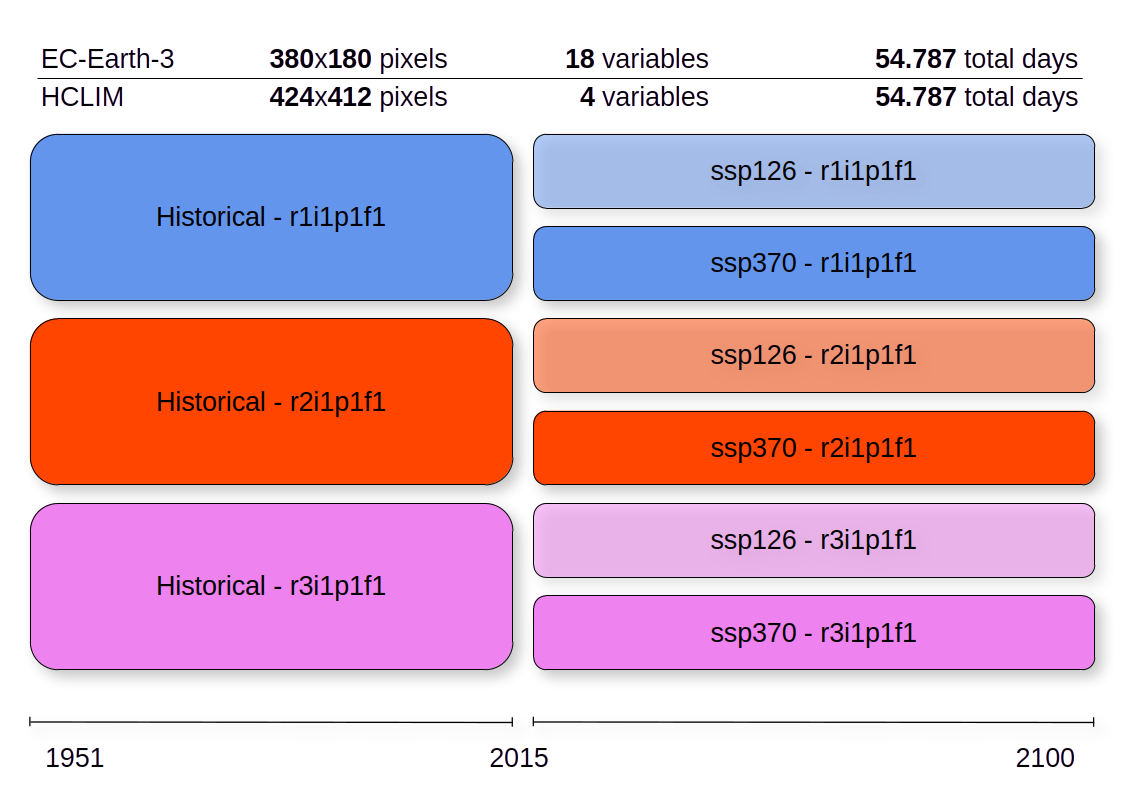
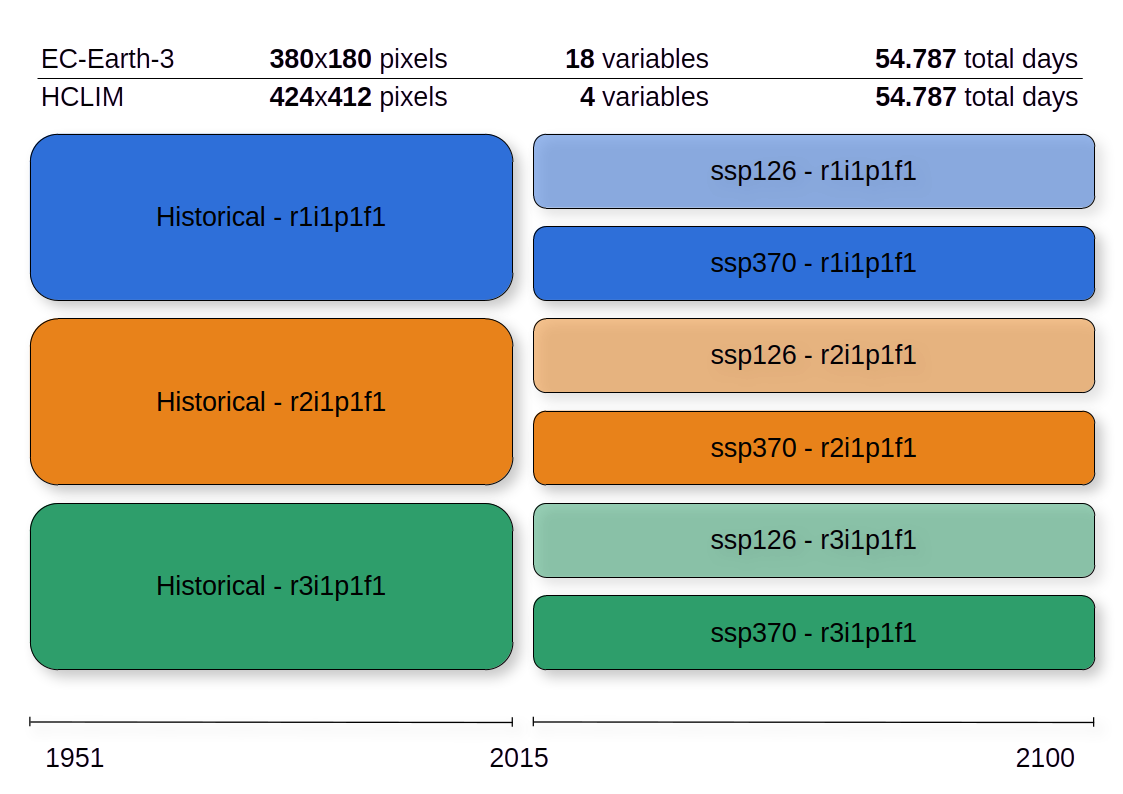
Updates from Overleaf

diff --git a/report/chapters/Data.tex b/report/chapters/Data.tex
@@ -3,15 +3,15 @@
 \section{Data structure}
 This thesis will cover a rather large (at least in the machine learning sense) climate data set. The data set covers two time periods; the "historical" period, spanning from 1951 till 2015, and the "future" data set, spanning from 2015 till 2100. In the data we find "images" of the climate, each image contains a number of \glspl{channel}, which covers one climatological variable each. One "image" spans one day, and contains aggregated data from that day (either minimum, mean, or maximum).
 
-\subsection{Climate models}
-The machine learning task in this thesis is of course \gls{downscaling}, which means that data must exist in two different resolutions. In this case, the two resolutions are populated by two different climate models. The low-resolution data is created by the EC-Earth-3 \gls{gcm}, while the high-resolution data is created by the HCLIM \gls{ddm}. 
+\subsection{Climate models} \label{sec:data-climate-model}
+The machine learning task in this thesis is of course \gls{downscaling}, which means that data must exist in two different resolutions. In this case, the two resolutions are populated by two different climate models. The low-resolution data is created by the \gls{ece} \gls{gcm}, while the high-resolution data is created by the \gls{hclim} \gls{ddm}. 
 
-Naturally, the two climate models operate on two different grid projections. While the EC-Earth-3 data is on a regular latitude-longitude grid,the HCLIM data uses a rotated polar grid. As the two projections map the Earth in wildly different manners, the EC-Earth-3 data set has to cover a much bigger area, than the HCLIM data, to make sure that it encompasses all the of the HCLIM area. The domains of the two datasets have been visualized in \autoref{fig:domains}.
+Naturally, the two climate models operate on two different grid projections. While the \gls{ece} data is on a regular latitude-longitude grid,the \gls{hclim} data uses a rotated polar grid. As the two projections map the Earth in wildly different manners, the \gls{ece} data set has to cover a much bigger area, than the \gls{hclim} data, to make sure that it encompasses all the of the \gls{hclim} area. The domains of the two datasets have been visualized in \autoref{fig:domains}.
 
-\begin{figure}
+\begin{figure}[tb]
     \centering
     \includegraphics[width=0.5\linewidth]{figures/data_section/domains.png}
-    \caption{Spatial areas of the two climate model datasets. The blue line represents the outer edge of the EC-Earth-3 (\gls{gcm}) data, and the orange-red line represents the outer edge of the HCLIM (\gls{ddm}) data}
+    \caption{Spatial areas of the two climate model datasets. The blue line represents the outer edge of the \gls{ece} (\gls{gcm}) data, and the orange-red line represents the outer edge of the \gls{hclim} (\gls{ddm}) data}
     \label{fig:domains}
 \end{figure}
 
@@ -22,10 +22,10 @@ In the future period, for both data sets, there are two \glspl{scenario}; "SSP12
 
 A visualisation  of the data structure can be found in \autoref{fig:data_structure}.
 
-\begin{figure}
+\begin{figure}[tb]
     \centering
     \includegraphics[width=0.8\linewidth]{figures/data_section/data_structure.png}
-    \caption{Data structure of the EC-Earth-3 and HCLIM data pair. It features two realisations for each of the two scenarios and the historical data. EC-Earth has a resolution of 380x180 pixels and 18 variables, while HCLIM has 424x412 and 4 variables. I amounts to a total of 499.074.007.488 pixel value climate estimates}
+    \caption{Data structure of the \gls{ece} and \gls{hclim} data pair. It features two realisations for each of the two scenarios and the historical data. EC-Earth has a resolution of 380x180 pixels and 18 variables, while \gls{hclim} has 424x412 and 4 variables. I amounts to a total of 499.074.007.488 pixel-value climate estimates}
     \label{fig:data_structure}
 \end{figure}
 
@@ -33,9 +33,9 @@ A visualisation  of the data structure can be found in \autoref{fig:data_structu
 Besides the two climate models, there are also two static features. In this sense "static" means that these features do not change over the temporal dimension. The two variables are "Orography", which describes the topography of the target area, and a "Land-Water mask" which describes the ratio of the grid point covered by water. Both features are delivered at a resolution matching the target grid.
 
 \subsection{Variables}
-As mentioned in \autoref{sec:scenarios} the EC-Earth-3 and HCLIM data has 18 and 4 variables respectively. In this case there are two types of variables, single-level variables and pressure-level variables. Single-level variables are only recorded once and typically model surface level climate like 2 meter temperature or precipitation. Pressure-level variables are recorded on several levels of the atmosphere. In this data we are working with three different pressure levels 500, 700, and 850 hPa, and on each level we see variables like pressure, humidity, etc. See \autoref{tab:variables} for full list of variables. 
+As mentioned in \autoref{sec:scenarios} the \gls{ece} and \gls{hclim} data has 18 and 4 variables respectively. In this case there are two types of variables, single-level variables and pressure-level variables. Single-level variables are only recorded once and typically model surface level climate like 2 meter temperature or precipitation. Pressure-level variables are recorded on several levels of the atmosphere. In this data we are working with three different pressure levels 500, 700, and 850 hPa, and on each level we see variables like pressure, humidity, etc. See \autoref{tab:variables} for full list of variables. 
 
-\begin{table}[] \label{tab:variables}
+\begin{table}[bt]
     \centering
     \begin{tabular}{l|l|l|l}
         \multicolumn{3}{l}{\textbf{Single-level Variables}} \\ \toprule
@@ -45,7 +45,7 @@ As mentioned in \autoref{sec:scenarios} the EC-Earth-3 and HCLIM data has 18 and
         \underline{PR}      & Precipitation                 & $\frac{kg}{m^2 s}$    & 380x180 and 424x412 \\ \midrule
         CLT                 & Cloud Area Fraction           & \%                    & 380x180 \\ \midrule
         PSL                 & Sea Level Pressure            & Pascal                & 380x180 \\ \midrule
-        \multicolumn{3}{l}{\textbf{Pressure-level Variables} (500 hPa, 700 hPa, 850 hPa} \\ \toprule
+        \multicolumn{3}{l}{\textbf{Pressure-level Variables} (500 hPa, 700 hPa, 850 hPa)} \\ \toprule
         UA                  & Eastward Wind                 & $m/s$                 & 380x180 \\ \midrule
         VA                  & Northward Wind                &  $m/s$                & 380x180 \\ \midrule
         HUS                 & Specific Humidity             & Watermass / Airmass   & 380x180 \\ \midrule
@@ -55,18 +55,31 @@ As mentioned in \autoref{sec:scenarios} the EC-Earth-3 and HCLIM data has 18 and
         SFTLF               & Sea Fraction to Land Fraction & \%                    & 424x412 \\ \midrule
     \end{tabular}
     \caption{Table of variables in dataset. Underlined variables are additionally used in as target data (albeit in a higher resolution)}
-    \label{tab:placeholder}
+    \label{tab:variables}
 \end{table}
 
 \section{Data distribution}
 In this section I will analyse the distributions and temporal developments of the data to develop an understanding of how the climate data can be modelled. This analysis is done prior to creating the model in order to best create preprocessing flows, that match the model capabilities and functions.
 
 \subsection{Time-series data}
-To start off let's have a look at the temporal development of the data. Specifically, let's model how the different \glspl{realisation} and \glspl{scenario} develop over time. This will help develop the understanding of the climate impact on temperature and precipitation through time. In the end, this will help us design the experiments and split data correctly.
+To start off let's have a look at the temporal development of the data. Specifically, let's model how the different \glspl{realisation} and \glspl{scenario} develop over time. This will help develop the understanding of the climate impact on temperature and precipitation through time. In the end, this will help us design the experiments and split data correctly. In \autoref{fig:tas-11-timeseries} we see such a visualisation.
+
+\begin{figure}[tb]
+    \centering
+    \subbottom[11-year running mean of the yearly mean temperatures over the entire EC-Earth domain (see \autoref{fig:domains}).]{
+        \includegraphics[width=.45\linewidth]{figures/data_section/climatology/timeseries_tas_11.png}
+    }
+    ~
+    \subbottom[11-year running mean of the yearly mean temperatures over the entire \gls{hclim} domain (see \autoref{fig:domains}).]{
+        \includegraphics[width=.45\linewidth]{figures/data_section/climatology/timeseries_tas_11_hclim.png}
+    }
+    \caption{11-year running mean of mean temperatures over Europe from 1951 to 2100. Colours blue, orange, and green represent realisation 1, 2, and 3 respectively. The vibrant lines show the ssp370 scenario and the faded lines show the ssp126 scenario.}
+    \label{fig:tas-11-timeseries}
+\end{figure}
+
+One of the most noticeable features of \autoref{fig:tas-11-timeseries} is the early "historical" period. There are very large internal variabilities between the different \glspl{realisation}. Varying as much as 2.5 degrees. This is due to the different initialisation states (as mentioned in \autoref{sec:data-climate-model}). \Gls{realisation} 3 might be initialised during a period with El Niño and \gls{realisation} with La Niña. However, as we move towards the "future" (starting in 2015) the variability decreases. Around 2040, we see the effects of the two different \glspl{scenario} to kick in. The ssp370 estimates accelerate in temperature rising a few degrees above that of the more climate-friendly ssp126 estimate. We also notice a difference in temperatures between the low-resolution \gls{ece} and high-resolution \gls{hclim} data. The \gls{hclim} data generally seems to be 2 degrees colder than \gls{ece} data.
 
 
-\newpage
-\includegraphics[width=1\linewidth]{figures/data_section/climatology/timeseries_tas.png}
 \newpage
 \includegraphics[width=1\linewidth]{figures/data_section/climatology/max_tas_days.png}
 \newpage
@@ -77,5 +90,3 @@ To start off let's have a look at the temporal development of the data. Specific
 \includegraphics[width=1\linewidth]{figures/data_section/climatology/warm_spell_days_line.png}
 \newpage
 \includegraphics[width=1\linewidth]{figures/method/residuals_tas.png}
-\newpage
-\includegraphics[width=1\linewidth]{figures/method/residuals_tas.pdf}

diff --git a/report/preamble/glossary.tex b/report/preamble/glossary.tex
@@ -12,12 +12,22 @@
 
 \newglossaryentry{scenario}{
     name=scenario,
-    description={A carbon emission scenario. It gives the climate model a reference point for how much carbon will be present in the atmosphere at a given time. Read more \href{here}{\url{https://www.dkrz.de/en/communication/climate-simulations/cmip6-en/the-ssp-scenarios}}. In this thesis we are working with SSP126 and SSP370}
+    description={A carbon emission scenario. It gives the climate model a reference point for how much carbon will be present in the atmosphere at a given time. Read more \href{https://www.dkrz.de/en/communication/climate-simulations/cmip6-en/the-ssp-scenarios}{\url{https://www.dkrz.de/en/communication/climate-simulations/cmip6-en/the-ssp-scenarios}}. In this thesis we are working with SSP126 and SSP370}
 }
 
 \newglossaryentry{realisation}{
     name=realisation,
     description={One sample of an ensemble climate model. Realisations often vary in their initialisations, one can be initialised in a colder period and thus produce colder estimates of the climate and vice versa}
+}
+
+\newglossaryentry{ece}{
+    name=EC-Earth,
+    description={"European Consortium Earth 3" is a General Circulation Model used to create low-resolution climate models for the entire globe. In this thesis, EC-Earth-3 will be used as the low-resolution data for the downscaling task}
+}
+
+\newglossaryentry{hclim}{
+    name=HCLIM,
+    description={The Harmonie Climate Model is a Dynamical Downscaling Model used to create high-resolution climate models for the European domain. In this thesis HCLIM will be used as the high-resolution target data for the downscaling task.}
 }
 
 \newacronym

diff --git a/report/chapters/Introduction.tex b/report/chapters/Introduction.tex
@@ -11,7 +11,7 @@ In this thesis, I propose a diffusion-based model for spatial temperature and pr
 
 The above citations summarize to the following hypothesis:
 The diffusion-based \gls{downscaling} approach will have comparable performance to that of the \gls{rcm} over the European Domain (similar to what is seen in \cite{tomasi}). Furthermore, the extreme weather events can be modelled with little loss and the diffusion model will accurately depict the temporal development of such events. \\
-The diffusion-based approach will have a higher computational cost than simple \glspl{sdm} (such as ResNets and VAEs), and the modifications made beyond the work of \cite{tomasi} will increase the computational load. However, the diffusion approach will have a lower computational cost than a \gls{ddm} (such as the HCLIM \gls{rcm}). \\
+The diffusion-based approach will have a higher computational cost than simple \glspl{sdm} (such as ResNets and VAEs), and the modifications made beyond the work of \cite{tomasi} will increase the computational load. However, the diffusion approach will have a lower computational cost than a \gls{ddm} (such as the \gls{hclim} \gls{rcm}). \\
 Finally, the diffusion-based approach will have a comparable, but lower, performance when transferred to adjacent \glspl{realisation}. Especially, when the correlation between the \glspl{realisation} of the \glspl{gcm} are lower, the model will yield a reduced accuracy. 
 
 \section*{Research Questions}

diff --git a/report/preamble/general.tex b/report/preamble/general.tex
@@ -364,4 +364,7 @@
 \usepackage{algpseudocode}
 \usepackage[acronym]{glossaries}
 \setacronymstyle{long-short-desc}
+\usepackage{caption}
+\usepackage{subcaption}
+\captionsetup{compatibility=false}
 \setlength{\abovetopsep}{4pt}
